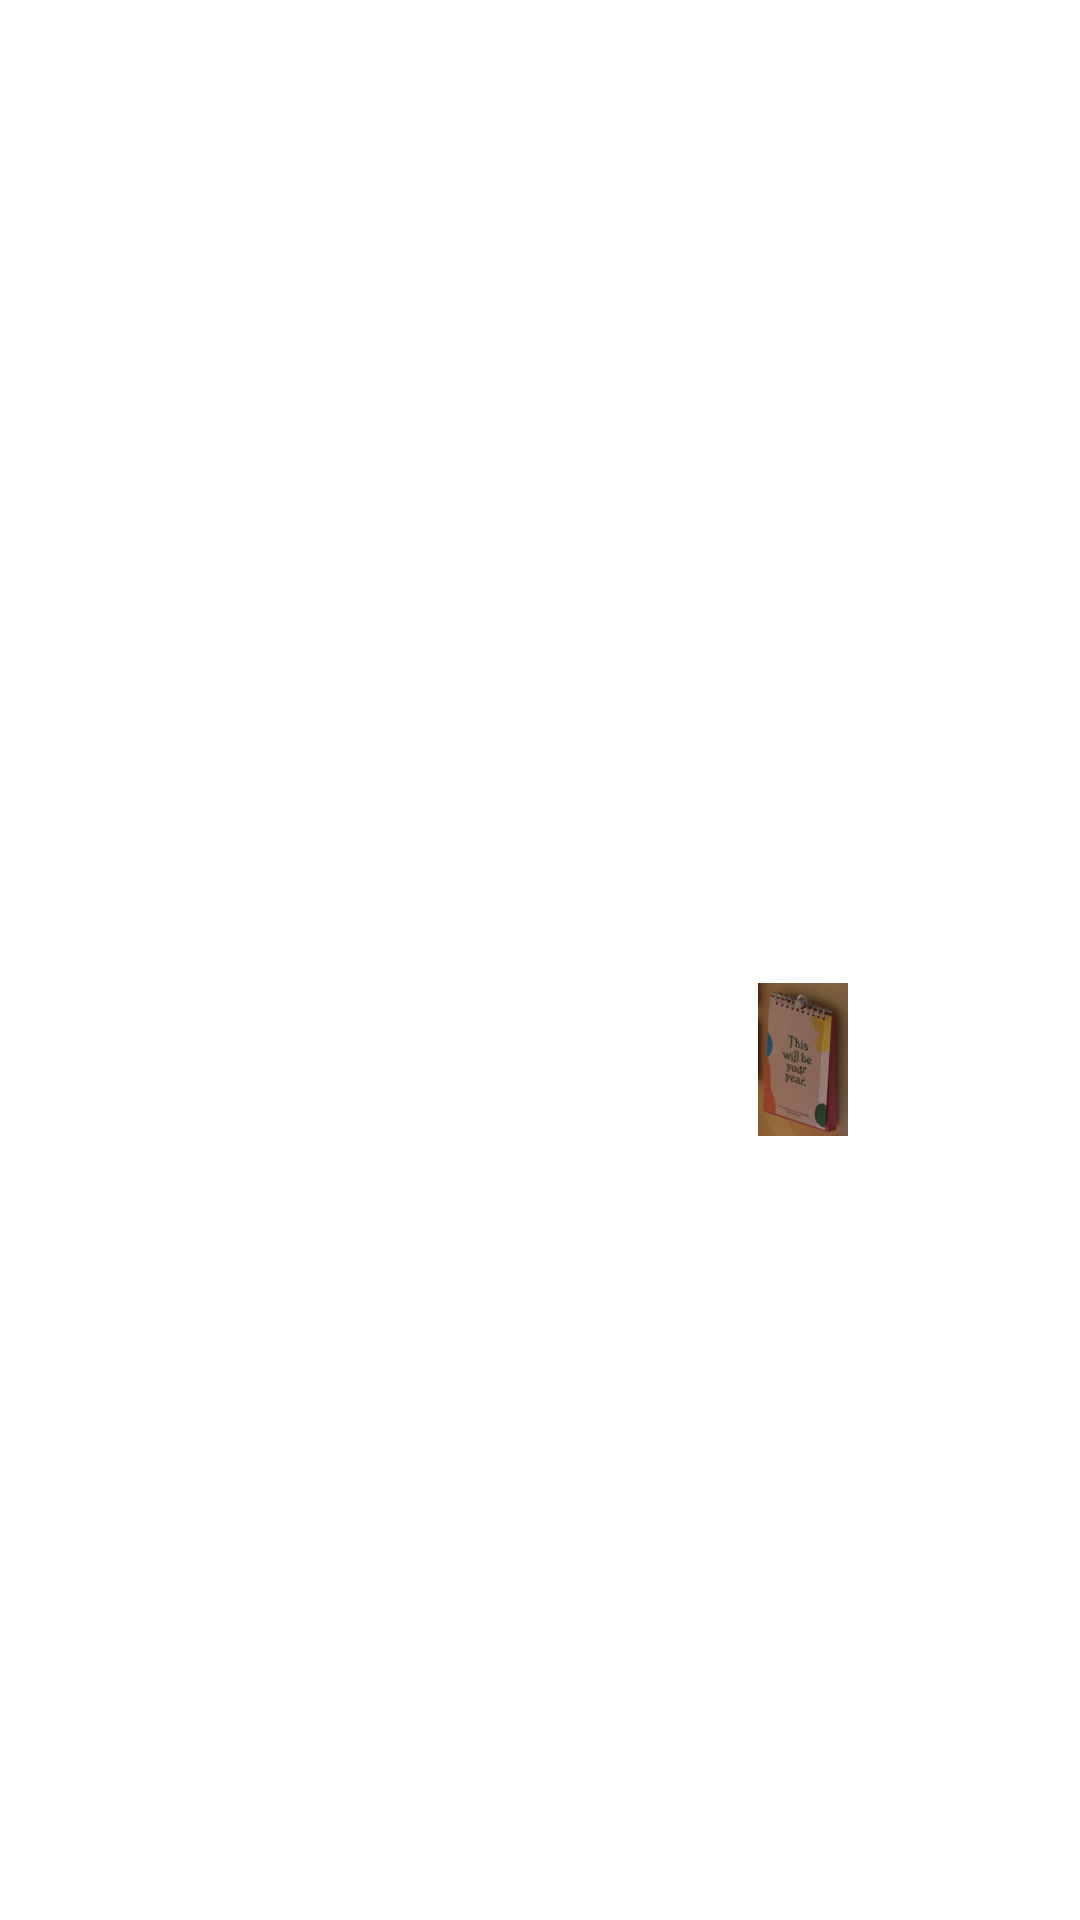
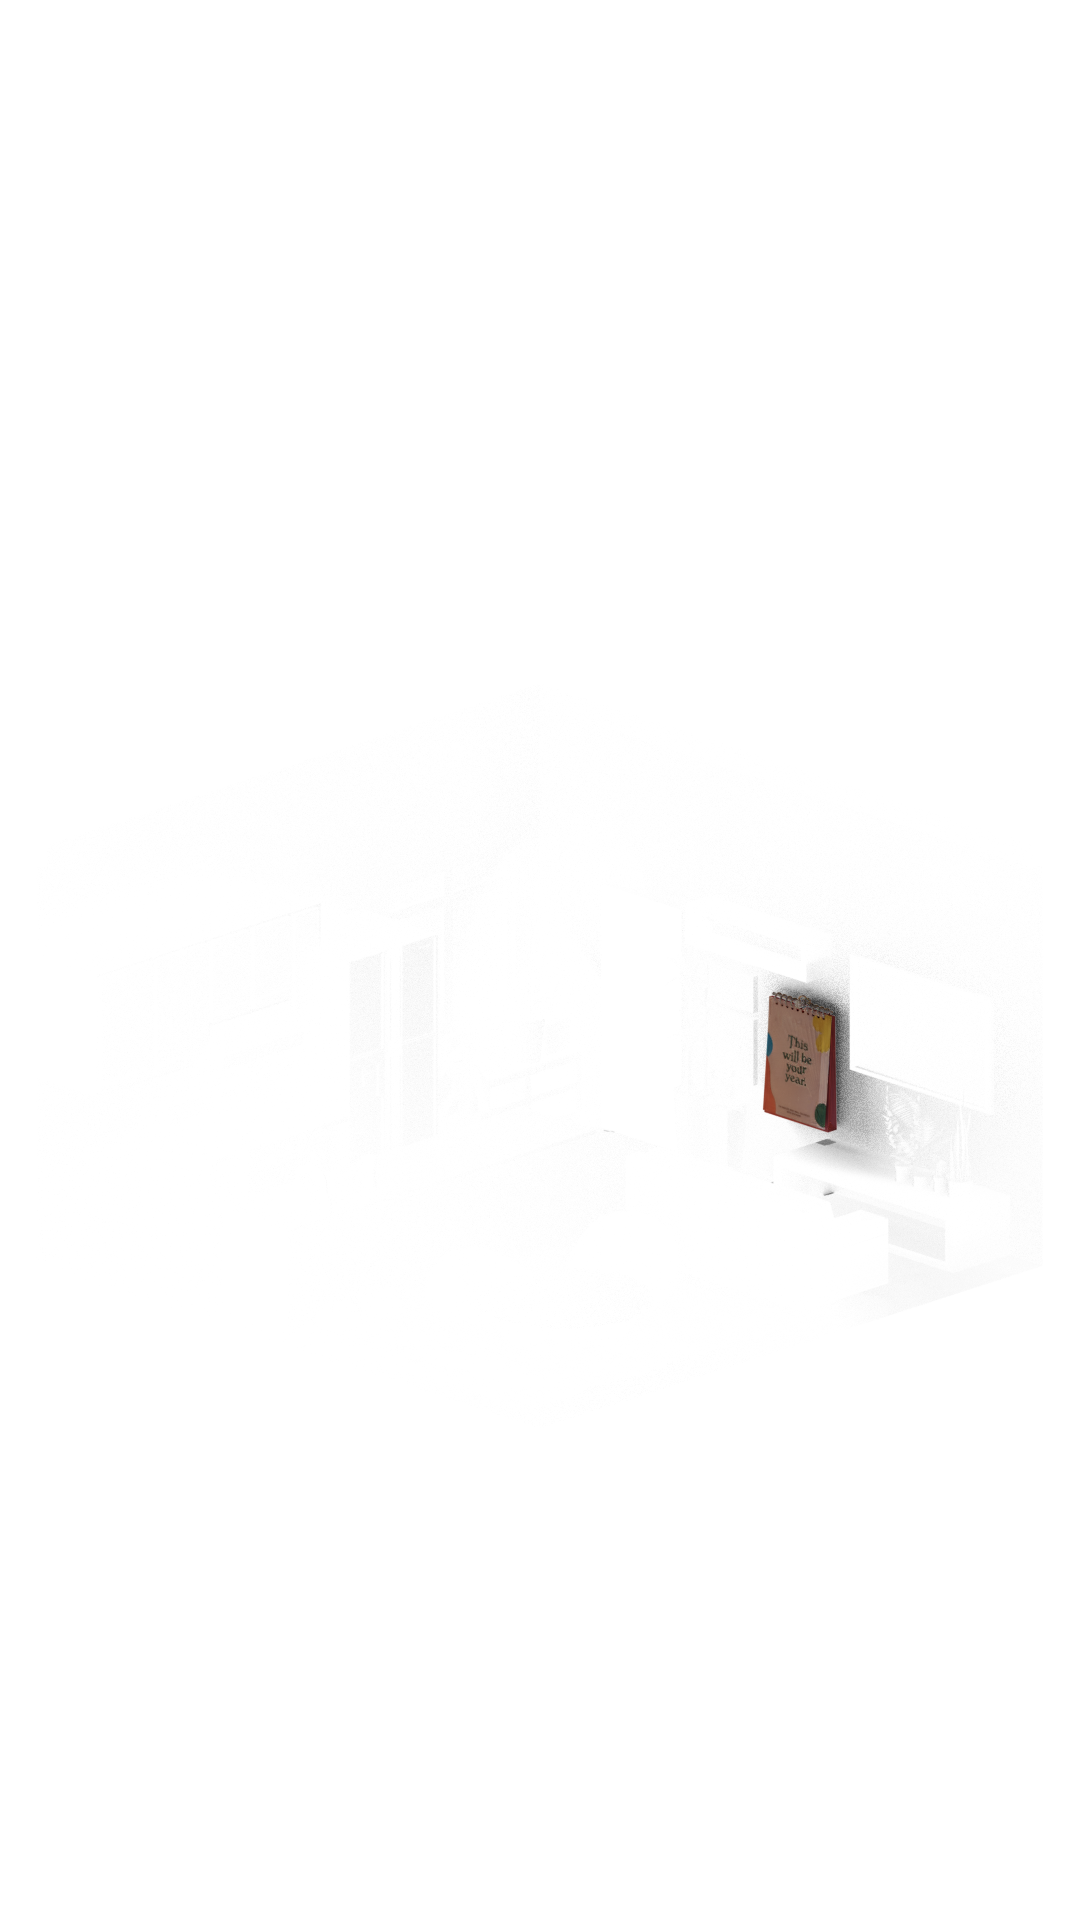
updated room and buttons and background, added dog

Changed region(s): [[0.6722, 0.5, 0.825, 0.625]]

diff --git a/screens/HomeScreen.js b/screens/HomeScreen.js
@@ -15,13 +15,14 @@ import { ScrollView } from "react-native-gesture-handler";
 import { SafeAreaView } from "react-native-safe-area-context";
 import { BasicText, HomeScreenHeader } from "../components";
 
+import TreePicture from "../assets/Home-assets/background.png";
 import RoomPicture from "../assets/Home-assets/roomPicture.png";
 import BankPicture from "../assets/Home-assets/piggybank.png";
 import ChorePicture from "../assets/Home-assets/washingmachine.png";
 import GroupPicture from "../assets/Home-assets/door.png";
 import TaskPicture from "../assets/Home-assets/taskboard.png";
 import CalendarPicture from "../assets/Home-assets/calendar.png";
-// import CloudGif from "../assets/Home-assets/clouds.gif";
+import dog1Gif from "../assets/Home-assets/dog1.gif";
 
 export default function HomeScreen({ navigation }) {
   function goToFinance() {
@@ -51,12 +52,11 @@ export default function HomeScreen({ navigation }) {
       <View style={styles.header}>
         <BasicText style={{ color: "#E16363", fontSize: 30 }}>Hall</BasicText>
       </View>
-      <View style={styles.backgroundAnimContainer}>
-        {/*<Image source={CloudGif} style={styles.backgroundAnim} />*/}
-      </View>
+      
       <ScrollView style={styles.scrollView} horizontal={true}>
         <ScrollView style={styles.scrollView}>
           <View style={styles.roomContainer}>
+            <Image source={TreePicture} style={styles.backgroundStyle} />
             <Image source={RoomPicture} style={styles.roomStyle} />
             <TouchableOpacity
               onPress={goToFinance}
@@ -158,6 +158,7 @@ export default function HomeScreen({ navigation }) {
                 <Image source={GroupPicture} style={styles.buttonImageStyle} />
               </View>
             </TouchableOpacity>
+            <Image source={dog1Gif} style={styles.mascotStyle} />
           </View>
         </ScrollView>
       </ScrollView>
@@ -189,7 +190,7 @@ const styles = StyleSheet.create({
     height: "100%",
   },
   scrollView: {
-    zIndex: 1,
+    zIndex: 0,
   },
   roomContainer: {
     height: Dimensions.get("window").height * 1,
@@ -203,6 +204,14 @@ const styles = StyleSheet.create({
     width: "120%",
     zIndex: 2,
     marginBottom: 100,
+  },
+  backgroundStyle: {
+    position: "absolute",
+    top: "-15%",
+    resizeMode: "cover",
+    height: "120%",
+    width: "120%",
+    zIndex: 1,
   },
   buttonStyle: {
     position: "absolute",
@@ -219,6 +228,14 @@ const styles = StyleSheet.create({
     resizeMode: "contain",
     height: "120%",
     width: "120%",
+  },
+  mascotStyle: {
+    position: "absolute",
+    height: "11%",
+    width: "11%",
+    top: "59%",
+    left: "37%",
+    zIndex: 3,
   },
   text: {
     fontSize: 42,
